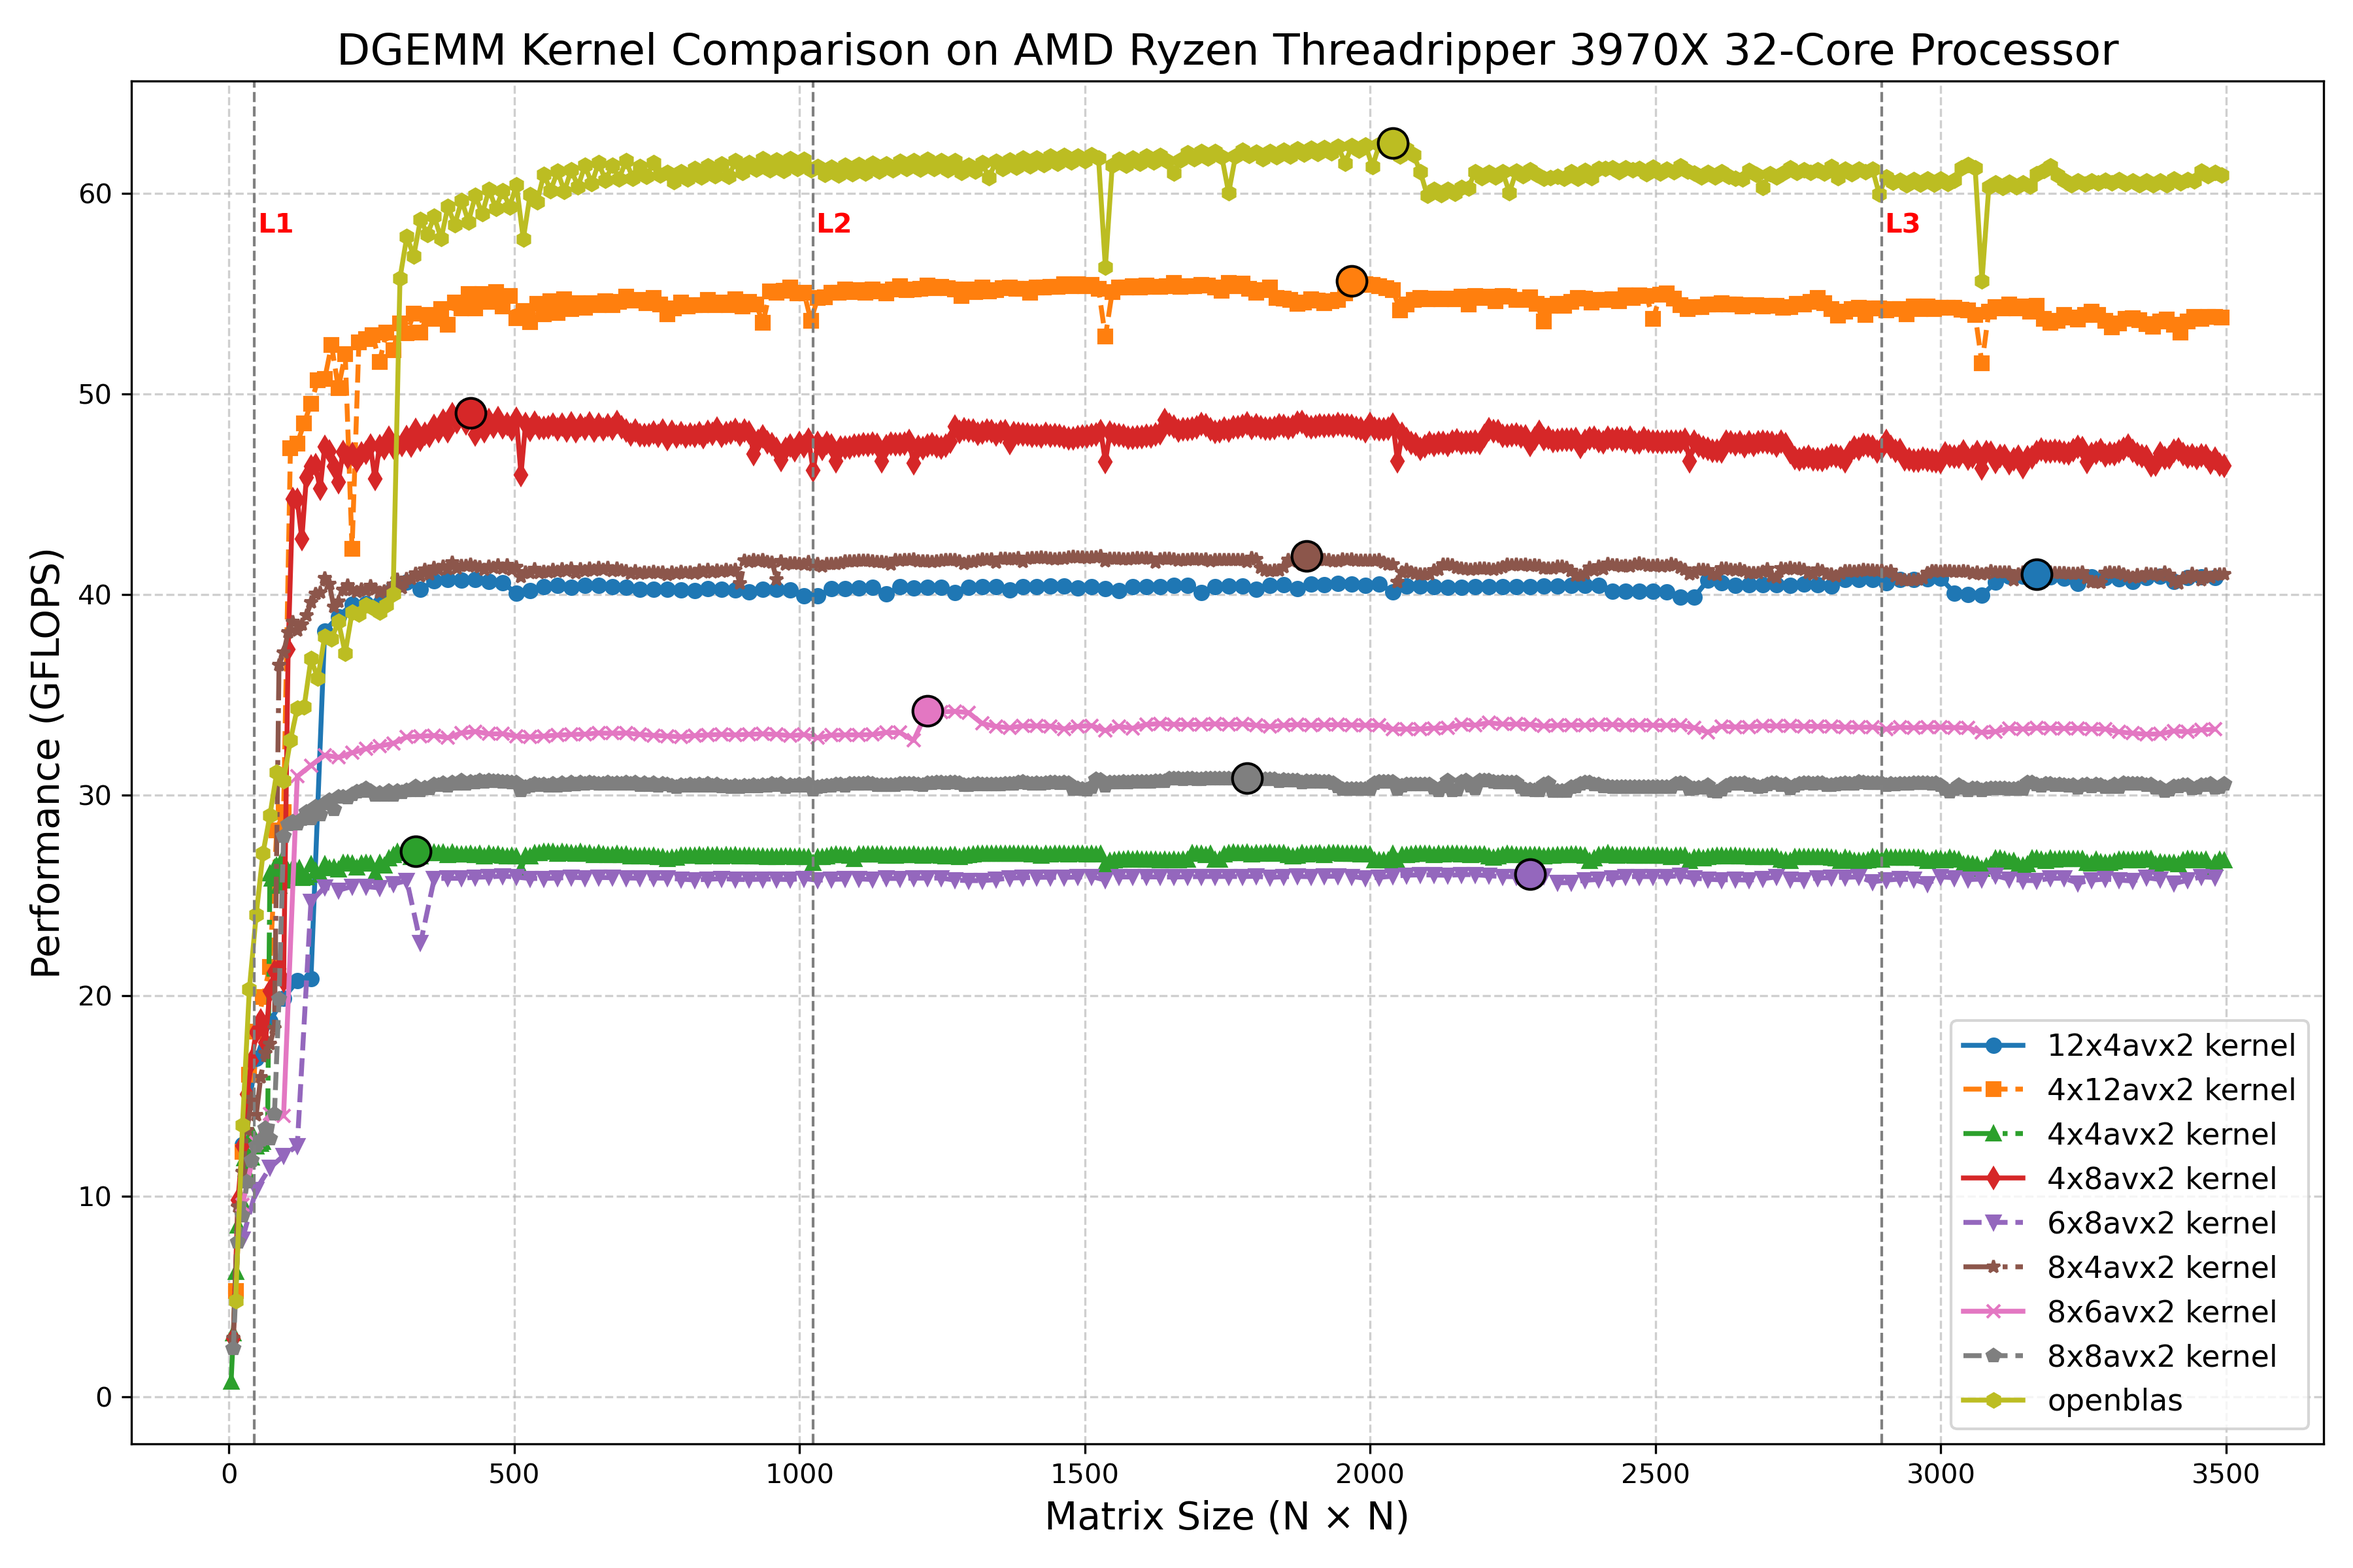
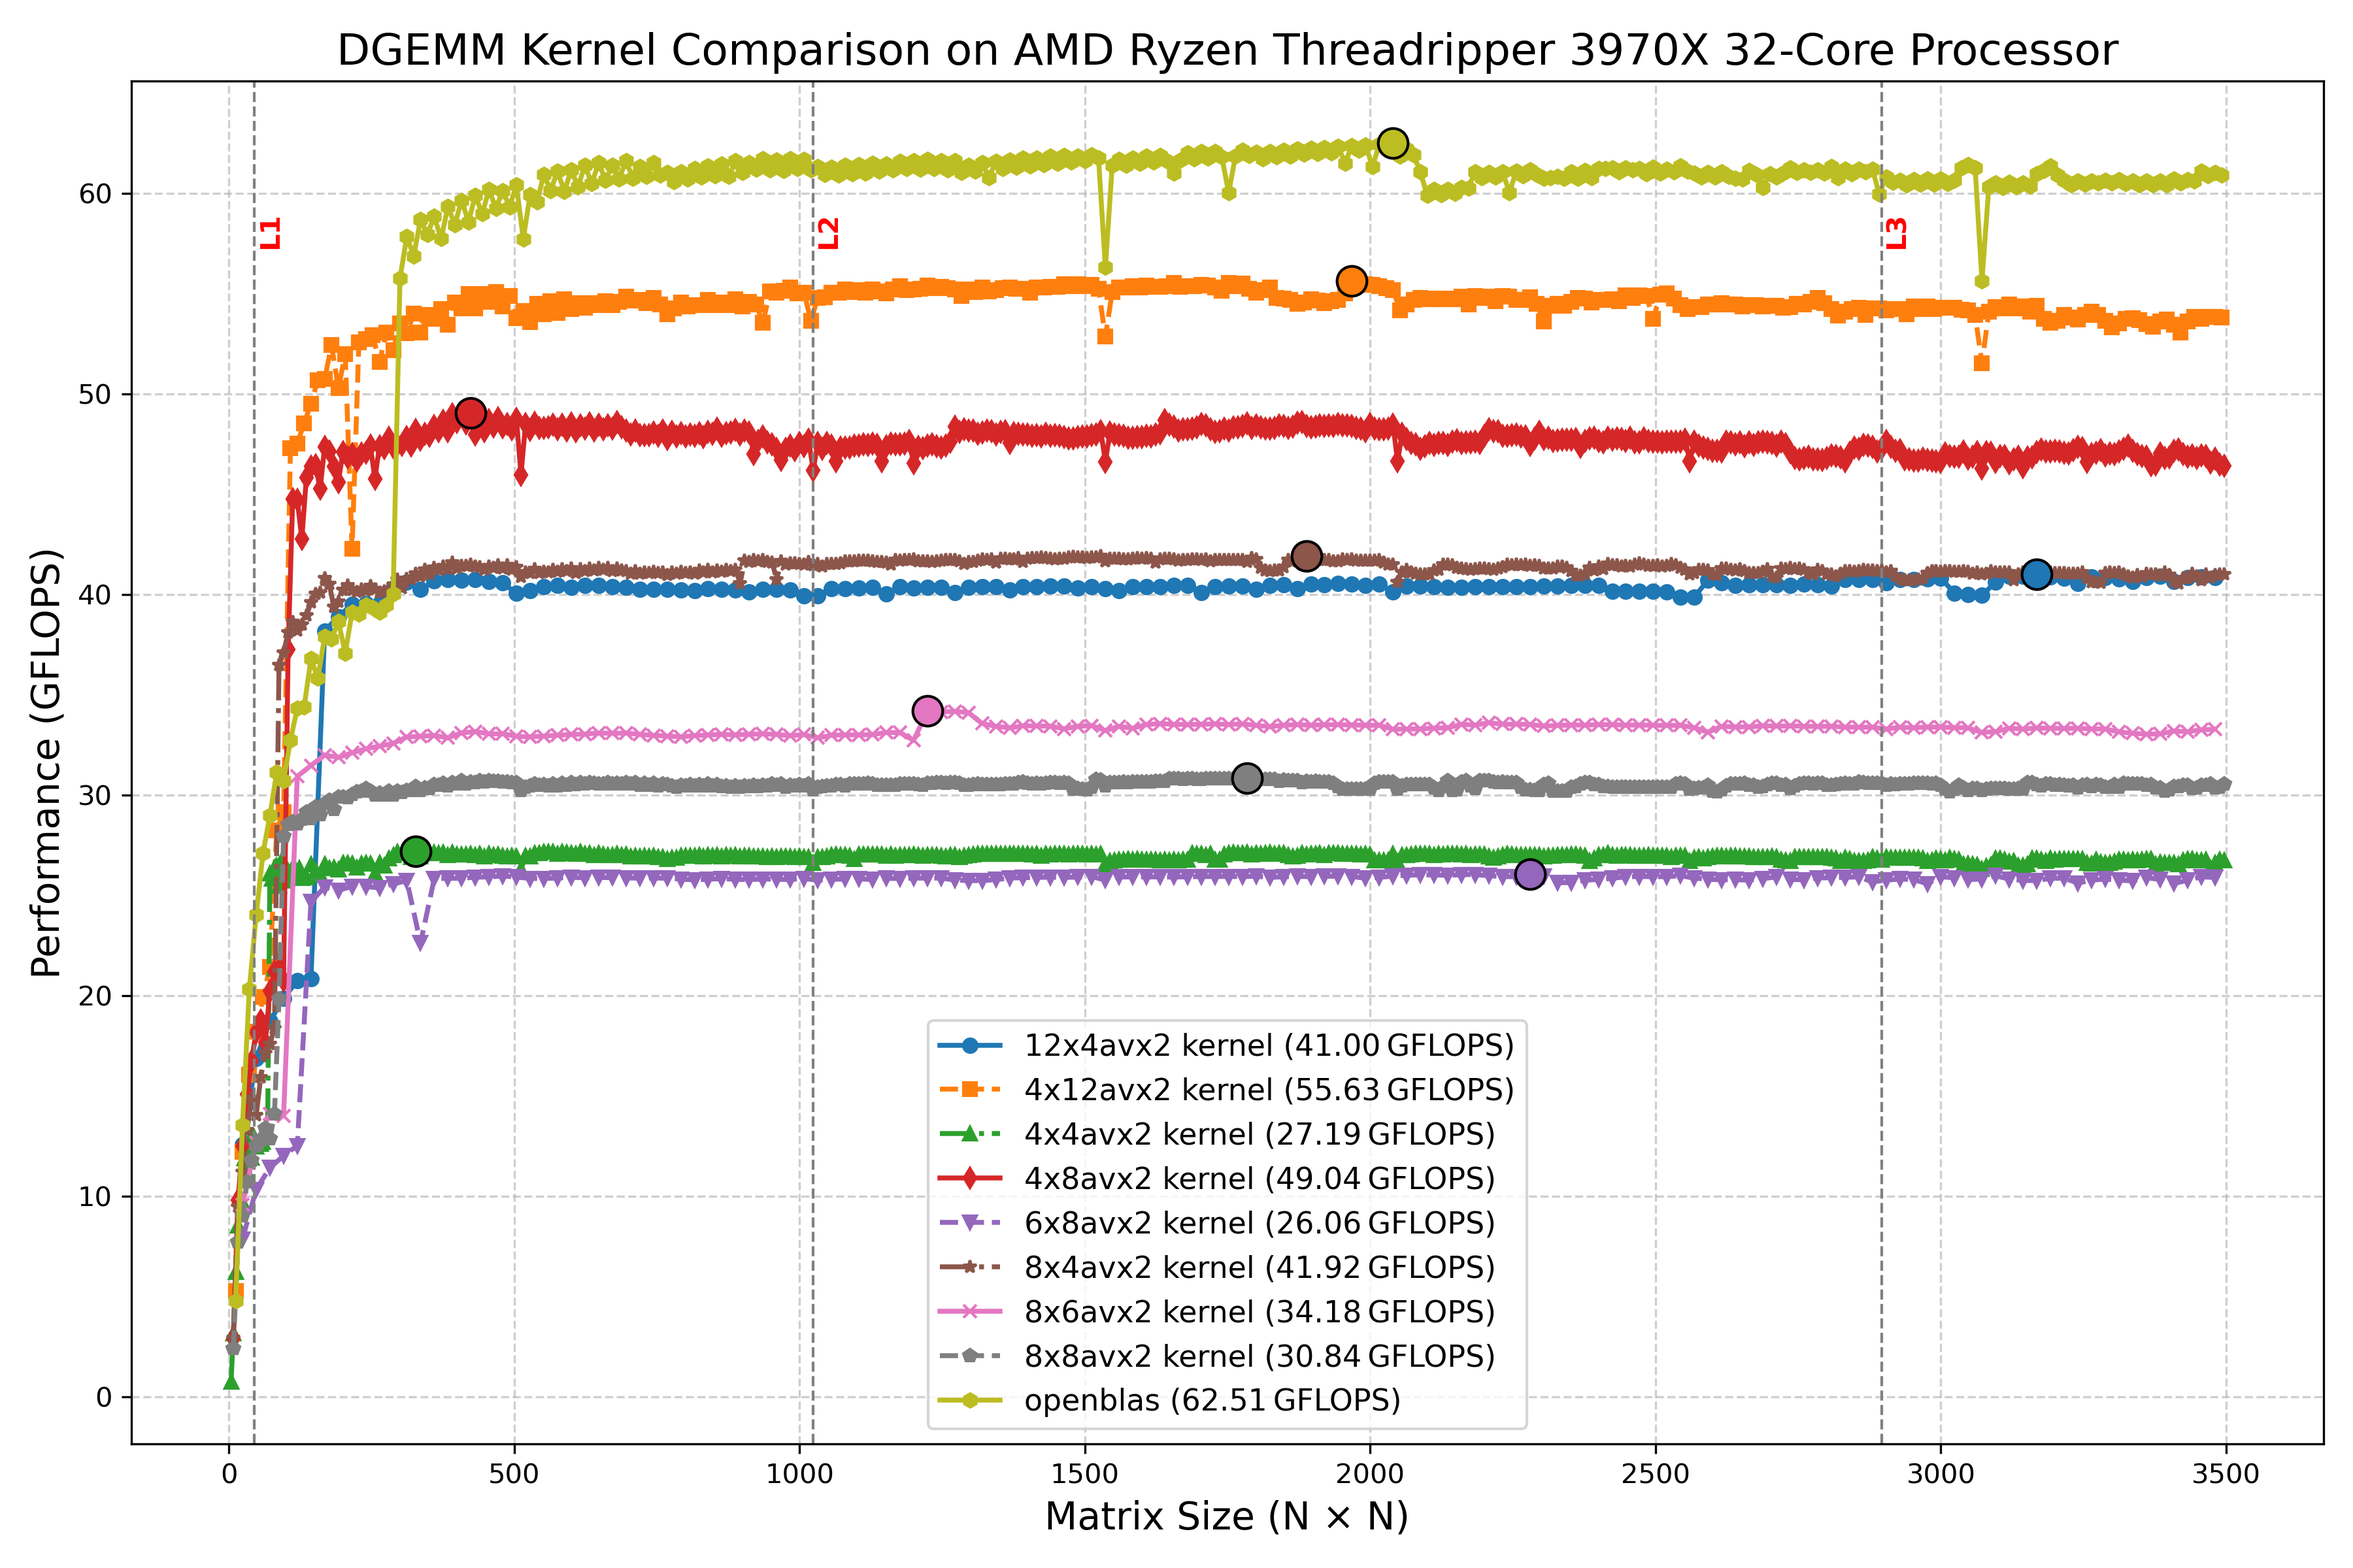
.

diff --git a/17/plot.py b/17/plot.py
@@ -15,54 +15,63 @@ def get_cpu_info():
                         cpu = L.split(":",1)[1].strip()
                         break
         elif sys == "Darwin":
+            # macOS
             cpu = subprocess.check_output(
-                ["sysctl","-n","machdep.cpu.brand_string"]
-            ).decode().strip()
-        elif sys == "Windows":
-            out = subprocess.check_output(["wmic","cpu","get","name"]).decode().splitlines()
-            cpu = out[1].strip() if len(out)>1 else platform.processor()
-    except:
+                ["sysctl","-n","machdep.cpu.brand_string"],
+                universal_newlines=True
+            ).strip()
+        else:
+            cpu = platform.processor()
+    except Exception:
         pass
     return cpu
 
 def plot_kernels(csv_files, output_file):
     cpu_info = get_cpu_info()
-
     plt.figure(figsize=(12,8))
+
     # choose markers and line styles in a cycle
     styles = ["o-","s--","^-.", "d-","v--","*-.", "x-","p--","h-"]
+
     for (csv, style) in zip(csv_files, styles):
         if not os.path.exists(csv):
             print(f"Warning: {csv} not found, skipping.")
             continue
 
+        # load and compute mean performance
         df = pd.read_csv(csv)
-        # compute mean GFLOPS over all GFLOPS* columns
         gcols = [c for c in df.columns if "GFLOPS" in c]
         df["mean_gflops"] = df[gcols].mean(axis=1)
 
-        # derive a short label
-        label = os.path.basename(csv)\
-                 .replace("dgemm_benchmark_","")\
-                 .replace("_results.csv","")\
-                 .replace("_"," ")
+        # short label from filename
+        short = (os.path.basename(csv)
+                   .replace("dgemm_benchmark_","")
+                   .replace("_results.csv","")
+                   .replace("_"," "))
 
-        # plot
+        # compute peak
+        i_peak = df["mean_gflops"].idxmax()
+        m_peak = df.loc[i_peak, "m"]
+        g_peak = df.loc[i_peak, "mean_gflops"]
+
+        # build legend label including peak GFLOPS
+        label = f"{short} ({g_peak:.2f} GFLOPS)"
+
+        # plot curve
         plt.plot(df["m"], df["mean_gflops"],
                  style, markersize=5, linewidth=1.8,
                  label=label)
 
-        # highlight peak
-        idx = df["mean_gflops"].idxmax()
-        plt.scatter(df.loc[idx,"m"], df.loc[idx,"mean_gflops"],
+        # mark the peak point
+        plt.scatter(m_peak, g_peak,
                     s=120, edgecolors='black',
                     zorder=3)
 
     # cache–size boundaries
-    for x,label in [(45,"L1"),(1024,"L2"),(2896,"L3")]:
+    for x, lbl in [(45,"L1"), (1024,"L2"), (2896,"L3")]:
         plt.axvline(x=x, color="gray", linestyle="--", linewidth=1)
-        plt.text(x+5, plt.ylim()[1]*0.9, label, color='red',
-                 rotation=0, va="top", weight="bold")
+        plt.text(x+5, plt.ylim()[1]*0.9, lbl,
+                 color='red', rotation=90, va="top", weight="bold")
 
     plt.grid(True, linestyle="--", alpha=0.6)
     plt.legend(loc="best", fontsize=11)
